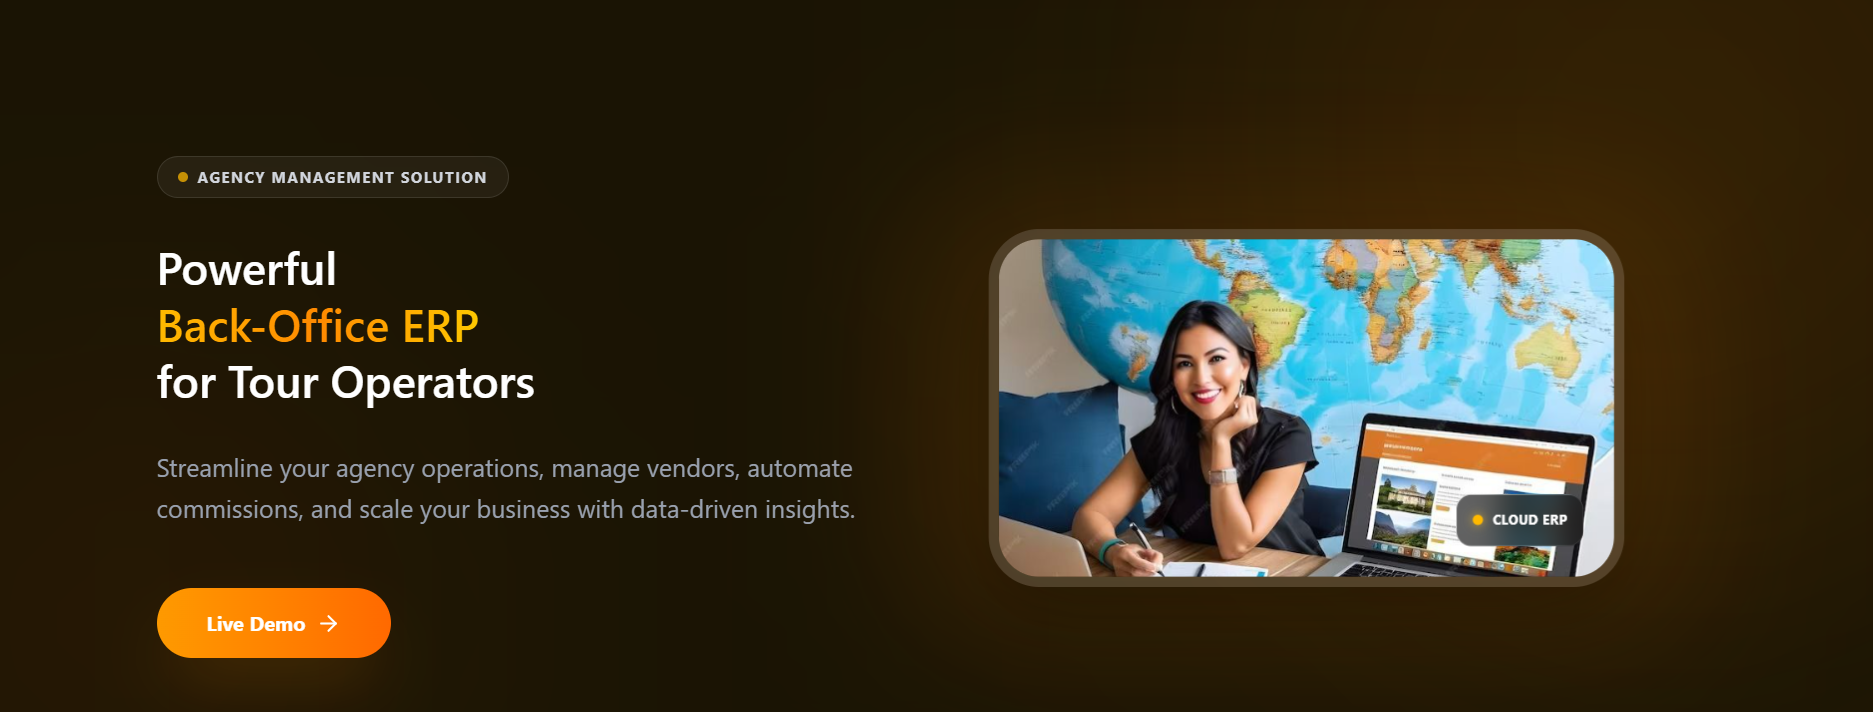
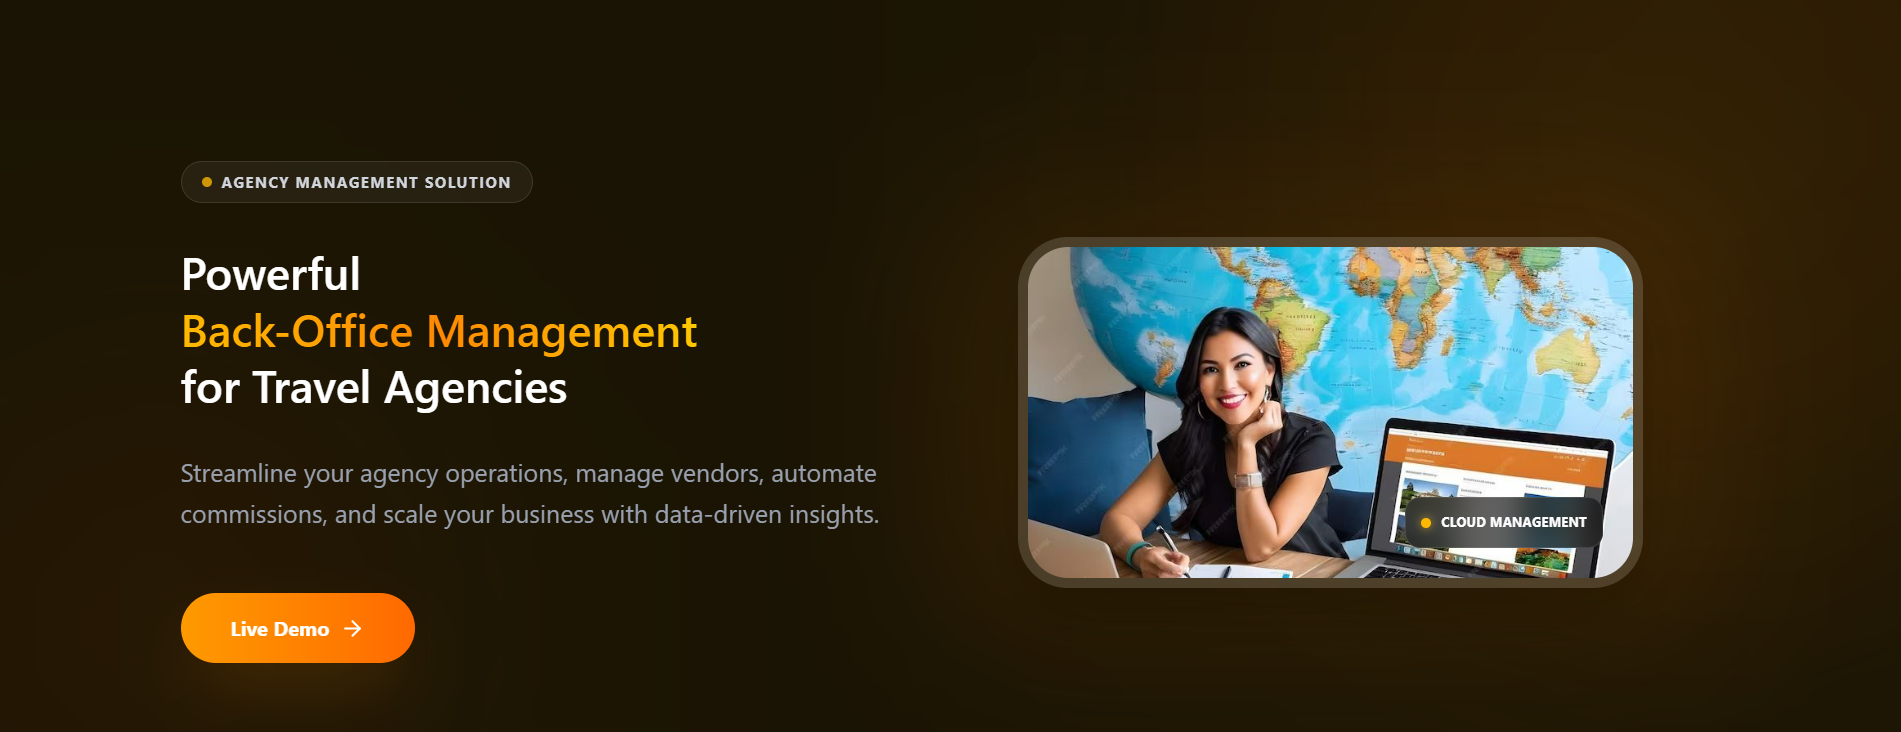
resolve image in travel agency and content

diff --git a/src/pages/products/TravelAgency-Management/sections/AgencyManagementAbout.jsx b/src/pages/products/TravelAgency-Management/sections/AgencyManagementAbout.jsx
@@ -14,7 +14,7 @@ const AgencyManagementAbout = () => {
         <section className="py-24 bg-gray-50 overflow-hidden">
             <div className="max-w-7xl mx-auto px-6">
                 <div className="flex flex-col lg:flex-row gap-16 items-center">
-                    
+
                     {/* Left: Content Grid */}
                     <div className="w-full lg:w-1/2 space-y-8">
                         <div>
@@ -23,7 +23,7 @@ const AgencyManagementAbout = () => {
                                 Built for the <span className="text-amber-600">Complex Needs</span> of Modern Agencies
                             </h2>
                             <p className="text-gray-500 text-lg mt-6 leading-relaxed">
-                                Managing a travel agency shouldn't be a nightmare of spreadsheets. Our ERP solution consolidates your entire operation into one powerful dashboard.
+                                Managing a travel agency shouldn't be a nightmare of spreadsheets. Our Travel Management solution consolidates your entire operation into one powerful dashboard.
                             </p>
                         </div>
 
@@ -46,8 +46,8 @@ const AgencyManagementAbout = () => {
                     {/* Right: Large Mockup Placeholder */}
                     <div className="w-full lg:w-1/2 relative group">
                         <div className="absolute -inset-4 bg-gradient-to-tr from-amber-500/10 to-orange-500/10 rounded-[60px] blur-2xl"></div>
-                        <div className="relative z-10 w-full aspect-[4/3] bg-white rounded-[50px] border-8 border-white shadow-2xl flex items-center justify-center overflow-hidden">
-                             <img src={aboutImg} alt="Admin Panel Mockup" className="w-full h-full object-cover" />
+                        <div className="relative z-10 w-full aspect-[4/4] bg-white rounded-[50px] border-8 border-white shadow-2xl flex items-center justify-center overflow-hidden">
+                            <img src={aboutImg} alt="Admin Panel Mockup" className="w-full h-full object-cover" />
                         </div>
                     </div>
 

diff --git a/src/pages/products/TravelAgency-Management/sections/AgencyManagementHero.jsx b/src/pages/products/TravelAgency-Management/sections/AgencyManagementHero.jsx
@@ -23,9 +23,9 @@ const AgencyManagementHero = () => {
             <h1 className="text-3xl lg:text-4xl font-semibold text-white leading-tight">
               Powerful <br />
               <span className="text-transparent bg-clip-text bg-gradient-to-r from-amber-400 via-orange-400 to-yellow-400">
-                Back-Office ERP
+                Back-Office Management
               </span> <br />
-              for Tour Operators
+              for Travel Agencies
             </h1>
 
             <p className="text-gray-400 text-lg lg:text-xl max-w-xl leading-relaxed">
@@ -50,11 +50,11 @@ const AgencyManagementHero = () => {
             <div className="relative group">
               <div className="absolute -inset-10 bg-gradient-to-tr from-amber-600/30 to-orange-400/20 rounded-[60px] blur-3xl opacity-40 group-hover:opacity-60 transition-all duration-700"></div>
               <div className="relative z-10 w-full max-w-[500px] mx-auto aspect-video bg-white/5 rounded-[40px] border-8 border-white/10 shadow-2xl overflow-hidden transition-all duration-700 group-hover:scale-[1.02] flex items-center justify-center">
-                <img src={heroImg} alt="Agency ERP Hero" className="w-full h-full object-cover" />
+                <img src={heroImg} alt="Travel Agency Management Hero" className="w-full h-full object-cover" />
                 {/* Live badge */}
                 <div className="absolute bottom-6 right-6 p-3 bg-black/60 backdrop-blur-md border border-white/10 rounded-xl flex items-center gap-2">
                   <div className="w-2 h-2 rounded-full bg-amber-400 shadow-[0_0_8px_rgba(251,191,36,0.8)]"></div>
-                  <span className="text-[10px] text-white font-bold uppercase tracking-wider">Cloud ERP</span>
+                  <span className="text-[10px] text-white font-bold uppercase tracking-wider">Cloud Management</span>
                 </div>
               </div>
             </div>

diff --git a/src/pages/products/TravelAgency-Management/sections/AgencyManagementFeatures.jsx b/src/pages/products/TravelAgency-Management/sections/AgencyManagementFeatures.jsx
@@ -61,10 +61,10 @@ const AgencyManagementFeatures = () => {
             <div className="max-w-7xl mx-auto px-6 relative z-10">
                 <div className="text-center mb-20 space-y-4">
                     <div className="inline-flex items-center gap-2 px-4 py-1 rounded-full bg-amber-500/10 border border-amber-500/20 text-amber-600 text-[10px] font-black uppercase tracking-[0.2em]">
-                        Enterprise Modules
+                        Travel Agency Modules
                     </div>
                     <h2 className="text-3xl lg:text-4xl font-semibold text-[#1E293B]">
-                        Comprehensive <span className="text-amber-600">ERP Capabilities</span>
+                        Comprehensive <span className="text-amber-600">Management Capabilities</span>
                     </h2>
                     <p className="text-gray-500 text-lg max-w-2xl mx-auto leading-relaxed">
                         Automate every aspect of your travel business with tools built for speed and precision.

diff --git a/src/pages/products/TravelAgency-Management/sections/AgencyManagementCTA.jsx b/src/pages/products/TravelAgency-Management/sections/AgencyManagementCTA.jsx
@@ -14,7 +14,7 @@ const AgencyManagementCTA = () => {
         </h2>
 
         <p className="text-gray-400 text-lg md:text-xl max-w-2xl mx-auto leading-relaxed">
-          Stop struggling with manual updates. Switch to our automated agency ERP and focus on what you do best: growing your business.
+          Stop struggling with manual updates. Switch to our automated agency and focus on what you do best: growing your business.
         </p>
 
         <div className="flex justify-center pt-4">

diff --git a/src/pages/products/TravelAgency-Management/sections/AgencyManagementHowItWorks.jsx b/src/pages/products/TravelAgency-Management/sections/AgencyManagementHowItWorks.jsx
@@ -46,7 +46,7 @@ const AgencyManagementHowItWorks = () => {
              Smart Operations in <span className="text-amber-600">4 Simple Steps</span>
           </h2>
           <p className="text-gray-500 text-lg max-w-2xl mx-auto">
-             How our ERP system transforms your agency operations from manual to fully automated.
+             How our management system transforms your agency operations from manual to fully automated.
           </p>
         </div>
 
